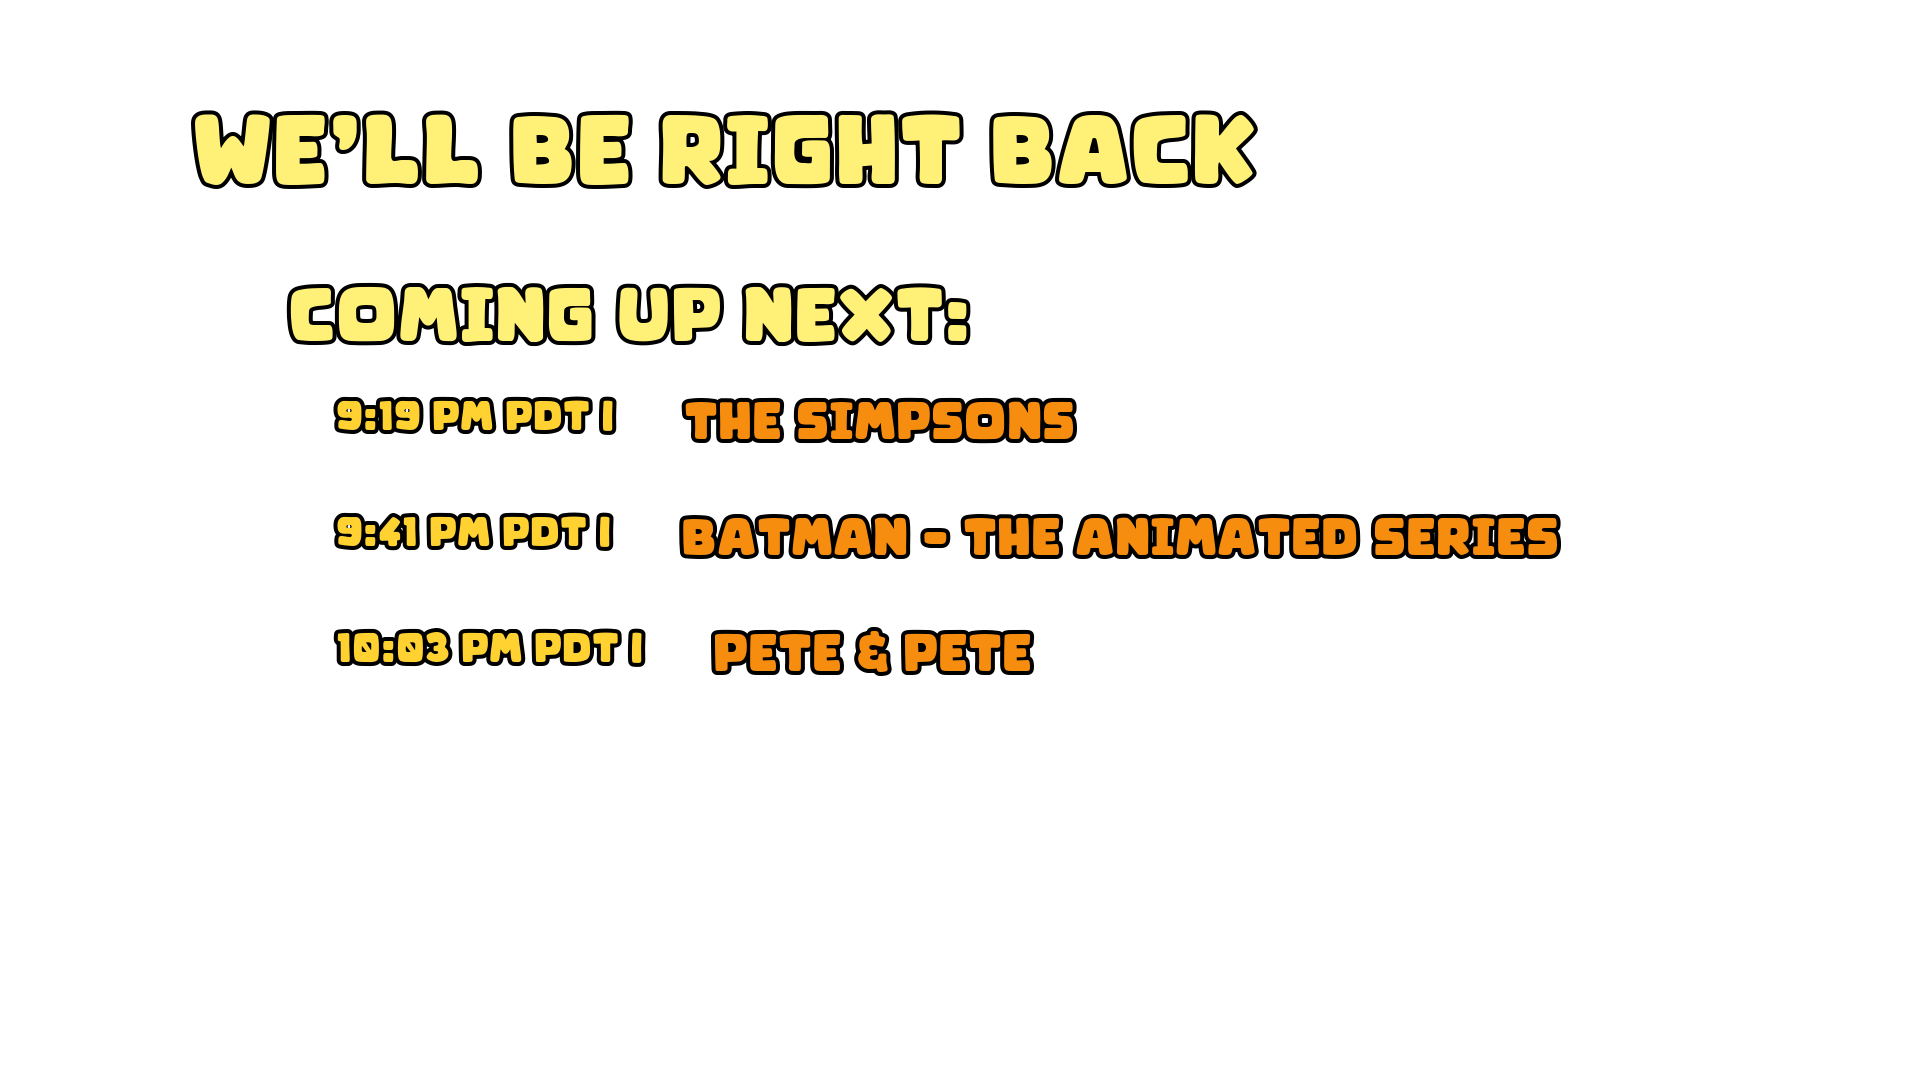
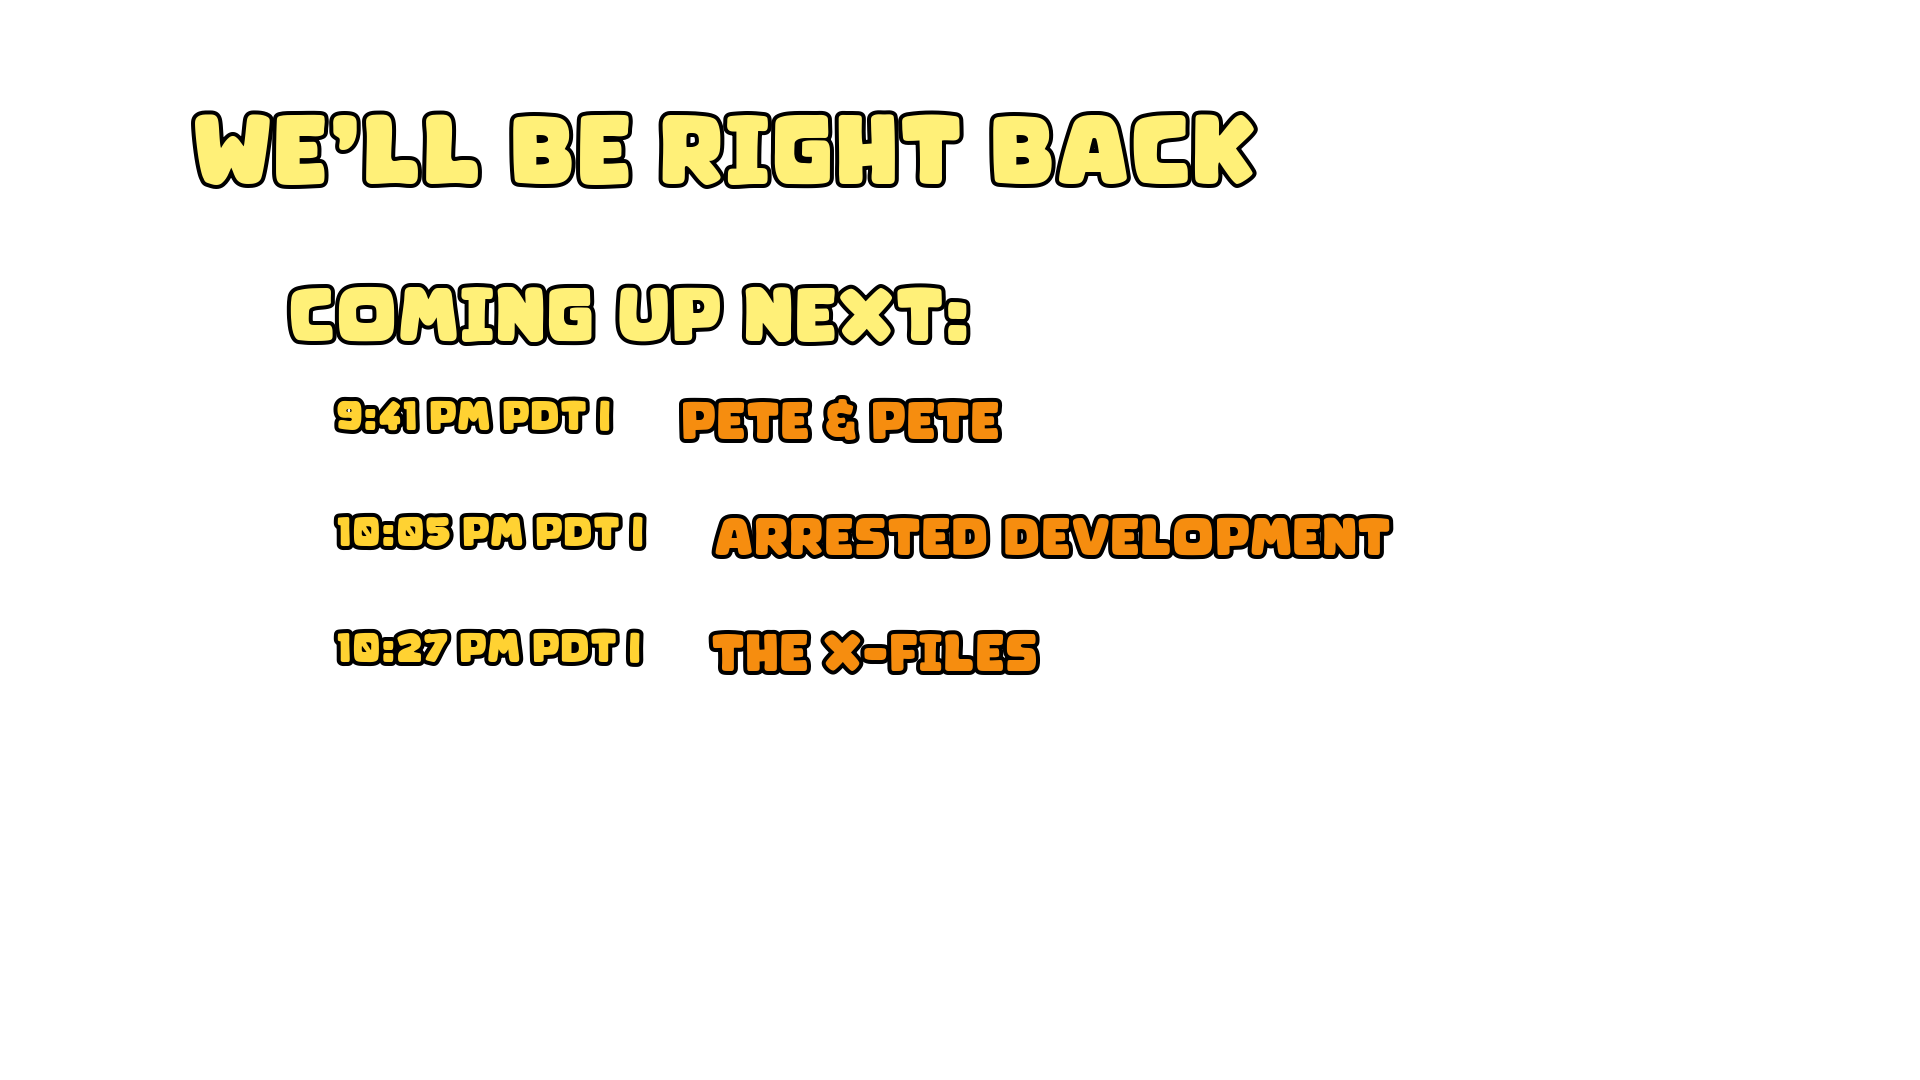
d

diff --git a/station_manager.py b/station_manager.py
@@ -17,11 +17,12 @@ if getattr(sys, 'frozen', False):
 else:
     app_dir = os.path.dirname(os.path.abspath(__file__))
 
+# --- THE MPV DLL FIX ---
 if os.name == 'nt' and hasattr(os, 'add_dll_directory'):
     os.add_dll_directory(app_dir)
+
 import mpv
 
-# Import our custom modules
 from inventory_manager import InventoryManager
 from schedule_engine import ScheduleEngine
 from commercial_manager import CommercialManager
@@ -49,9 +50,6 @@ DEFAULT_CONFIG = {
 }
 
 class TVStationService:
-    """
-    Runs the MPV Player in a background thread so the GUI doesn't freeze.
-    """
     def __init__(self, gui_app):
         self.gui = gui_app
         self.running = False
@@ -127,184 +125,173 @@ class TVStationService:
     def _get_random_bug_filter(self):
         """Picks a random GIF from assets/bugs and returns the FFmpeg filter string."""
         bug_dir = os.path.join(app_dir, "assets", "bugs")
-        
         if not os.path.exists(bug_dir):
             return None
-            
-        # Find all GIFs in the folder
         bugs = [f for f in os.listdir(bug_dir) if f.lower().endswith('.gif')]
         if not bugs:
             return None
             
-        # Pick a random bug and format the path for FFmpeg
         selected_bug = random.choice(bugs)
         bug_path = os.path.join(bug_dir, selected_bug)
         bug_path_ffmpeg = bug_path.replace("\\", "/").replace(":", "\\:")
-        
-        # Scale to 100px height (adjust if needed) and place in bottom right
         bug_height = 100
         return f"lavfi=[movie=filename='{bug_path_ffmpeg}':loop=0,scale=-1:{bug_height},setsar=1[logo];[in][logo]overlay=W-w-50:H-h-50]"
 
     def _broadcast_loop(self):
-        # --- 1. MPV SETUP ---
-        player = mpv.MPV(
-            wid=self.window_id,
-            input_default_bindings=True,
-            input_vo_keyboard=True,
-            log_handler=lambda level, prefix, text: print(f"MPV [{level}] {prefix}: {text}") if level in ['error', 'warning'] else None
-        )
+        player = None
+        try:
+            # --- 1. MPV SETUP ---
+            player = mpv.MPV(
+                wid=self.window_id,
+                input_default_bindings=True,
+                input_vo_keyboard=True,
+                log_handler=lambda level, prefix, text: print(f"MPV [{level}] {prefix}: {text}") if level in ['error', 'warning'] else None
+            )
 
-        while self.running:
-            current_content = self.scheduler.get_next_item()
-            current_playlist = self._prepare_playlist(current_content)
-            
-            if current_content['type'] == 'video':
-                show_title = current_content.get('show', 'Unknown Show')
-                ep_title = os.path.basename(current_content.get('path', 'Unknown Episode'))
-                self.current_meta.update({"show": show_title, "title": ep_title})
-            elif current_content['type'] == 'break':
-                self.current_meta.update({"show": "Commercial Break", "title": "Messages"})
-
-            # --- BUMPER SEQUENCE ---
-            if current_content['type'] == 'break':
-                print("--- GENERATING UP NEXT BUMPER ---")
+            while self.running:
+                current_content = self.scheduler.get_next_item()
+                current_playlist = self._prepare_playlist(current_content)
                 
-                comm_duration = random.randint(current_content['min'], current_content['max'])
-                upcoming_shows = self.scheduler.get_upcoming_durations(limit=3)
+                if current_content['type'] == 'video':
+                    show_title = current_content.get('show', 'Unknown Show')
+                    ep_title = os.path.basename(current_content.get('path', 'Unknown Episode'))
+                    self.current_meta.update({"show": show_title, "title": ep_title})
+                elif current_content['type'] == 'break':
+                    self.current_meta.update({"show": "Commercial Break", "title": "Messages"})
 
-                bg_folder = os.path.join(app_dir, "assets", "bg")
-                bumper_bg = None
-
-                if os.path.exists(bg_folder):
-                    valid_exts = ('.mp4', '.mkv', '.avi', '.mov')
-                    files = [f for f in os.listdir(bg_folder) if f.lower().endswith(valid_exts)]
-                    if files:
-                        bumper_bg = os.path.join(bg_folder, random.choice(files))
-
-                if not bumper_bg:
-                    bumper_bg = os.path.join(app_dir, "assets", "up_next_bg.mp4")
-
-                player.play(bumper_bg)
-                time.sleep(0.5) 
-
-                bg_width = player.dwidth if player.dwidth else 1920
-                bg_height = player.dheight if player.dheight else 1080
-
-                temp_overlay = os.path.join(app_dir, "assets", "temp_overlay.png")
-                self.gfx_engine.generate_transparent_bumper(
-                    upcoming_shows, 
-                    comm_duration, 
-                    output_path=temp_overlay,
-                    target_width=bg_width, 
-                    target_height=bg_height
-                )
-
-                # Apply the Bumper Text PNG
-                temp_overlay_ffmpeg = temp_overlay.replace("\\", "/").replace(":", "\\:")
-                bumper_filter = f"lavfi=[movie=filename='{temp_overlay_ffmpeg}'[logo];[in][logo]overlay=0:0]"
-                
-                try:
-                    player.command("vf", "add", f"@bumper:{bumper_filter}")
-                except Exception as e:
-                    print(f"DEBUG: Bumper Overlay Error: {e}")
-
-                # --- ADD A RANDOM BUG TO THE BUMPER ---
-                bug_filter = self._get_random_bug_filter()
-                if bug_filter:
-                    try:
-                        player.command("vf", "add", f"@stationbug:{bug_filter}")
-                    except Exception as e:
-                        print(f"DEBUG: Bumper Bug Overlay Error: {e}")
-
-                # Wait for Bumper to end
-                while not player.idle_active and self.running:
-                    time.sleep(0.1)
-
-                # Remove bumper filters
-                try: player.command("vf", "remove", "@bumper")
-                except: pass
-                try: player.command("vf", "remove", "@stationbug")
-                except: pass
-                
-                print("--- COMMERCIAL BREAK STARTING ---")
-
-            # --- PLAY CHUNK (Shows or Commercials) ---
-            for filepath in current_playlist:
-                if not self.running: break
-                
-                player.play(filepath)
-                time.sleep(0.5)
-                
-                # Setup Bug Timers for TV Shows
-                mid_bug_shown = False
-                end_bug_shown = False
-                remove_bug_at_time = 0
-                bug_display_duration = 15 # How many seconds the bug stays on screen
-                
-                # --- MONITOR LOOP ---
-                while not player.idle_active and self.running:
-                    # CHECK FOR SKIP
-                    if self.skip_flag:
-                        duration = player.duration if player.duration else 0
-                        curr_time = player.time_pos if player.time_pos else 0
-                        pct = (curr_time / duration) * 100 if duration > 0 else 0
-                        
-                        if current_content['type'] == 'video' and pct > 5:
-                            self.update_history(current_content['show'], current_content['path'], "partial", pct)
-                        
-                        player.stop()
-                        self.skip_flag = False
-                        break 
+                # --- BUMPER SEQUENCE ---
+                if current_content['type'] == 'break':
+                    print("--- GENERATING UP NEXT BUMPER ---")
                     
-                    # TIMED BUG LOGIC
-                    duration = player.duration if player.duration else 0
-                    if duration > 0:
-                        curr_time = player.time_pos if player.time_pos else 0
-                        self.current_meta["percent"] = (curr_time / duration) * 100
+                    comm_duration = random.randint(current_content['min'], current_content['max'])
+                    upcoming_shows = self.scheduler.get_upcoming_durations(limit=3)
 
-                        # Only do timed bugs on TV shows, not commercials
-                        if current_content['type'] == 'video':
+                    bg_folder = os.path.join(app_dir, "assets", "bg")
+                    bumper_bg = None
+
+                    if os.path.exists(bg_folder):
+                        valid_exts = ('.mp4', '.mkv', '.avi', '.mov')
+                        files = [f for f in os.listdir(bg_folder) if f.lower().endswith(valid_exts)]
+                        if files:
+                            bumper_bg = os.path.join(bg_folder, random.choice(files))
+
+                    if not bumper_bg:
+                        bumper_bg = os.path.join(app_dir, "assets", "up_next_bg.mp4")
+
+                    player.play(bumper_bg)
+                    time.sleep(0.5) 
+
+                    bg_width = player.dwidth if player.dwidth else 1920
+                    bg_height = player.dheight if player.dheight else 1080
+
+                    temp_overlay = os.path.join(app_dir, "assets", "temp_overlay.png")
+                    self.gfx_engine.generate_transparent_bumper(
+                        upcoming_shows, 
+                        comm_duration, 
+                        output_path=temp_overlay,
+                        target_width=bg_width, 
+                        target_height=bg_height
+                    )
+
+                    temp_overlay_ffmpeg = temp_overlay.replace("\\", "/").replace(":", "\\:")
+                    bumper_filter = f"lavfi=[movie=filename='{temp_overlay_ffmpeg}'[logo];[in][logo]overlay=0:0]"
+                    
+                    try: player.command("vf", "add", f"@bumper:{bumper_filter}")
+                    except: pass
+
+                    bug_filter = self._get_random_bug_filter()
+                    if bug_filter:
+                        try: player.command("vf", "add", f"@stationbug:{bug_filter}")
+                        except: pass
+
+                    # Wait for Bumper to end, allow skipping
+                    while not getattr(player, 'idle_active', True) and self.running:
+                        if self.skip_flag:
+                            player.command("stop")
+                            self.skip_flag = False
+                            break
+                        time.sleep(0.1)
+
+                    try: player.command("vf", "remove", "@bumper")
+                    except: pass
+                    try: player.command("vf", "remove", "@stationbug")
+                    except: pass
+                    
+                    print("--- COMMERCIAL BREAK STARTING ---")
+
+                # --- PLAY CHUNK (Shows or Commercials) ---
+                for filepath in current_playlist:
+                    if not self.running: break
+                    
+                    player.play(filepath)
+                    time.sleep(0.5)
+                    
+                    mid_bug_shown = False
+                    end_bug_shown = False
+                    remove_bug_at_time = 0
+                    bug_display_duration = 15 
+                    
+                    # --- MONITOR LOOP ---
+                    while not getattr(player, 'idle_active', True) and self.running:
+                        # CHECK FOR SKIP
+                        if self.skip_flag:
+                            duration = player.duration if player.duration else 0
+                            curr_time = player.time_pos if player.time_pos else 0
+                            pct = (curr_time / duration) * 100 if duration > 0 else 0
                             
-                            # Clean up the bug if its time is up
-                            if remove_bug_at_time > 0 and time.time() >= remove_bug_at_time:
-                                try: player.command("vf", "remove", "@stationbug")
-                                except: pass
-                                remove_bug_at_time = 0
+                            if current_content['type'] == 'video' and pct > 5:
+                                self.update_history(current_content['show'], current_content['path'], "partial", pct)
+                            
+                            player.command("stop")
+                            self.skip_flag = False
+                            break 
+                        
+                        # TIMED BUG LOGIC
+                        duration = player.duration if player.duration else 0
+                        if duration > 0:
+                            curr_time = player.time_pos if player.time_pos else 0
+                            self.current_meta["percent"] = (curr_time / duration) * 100
 
-                            # Trigger 1: The Halfway Mark
-                            if not mid_bug_shown and curr_time >= (duration / 2):
-                                bug_filter = self._get_random_bug_filter()
-                                if bug_filter:
-                                    try: player.command("vf", "add", f"@stationbug:{bug_filter}")
+                            if current_content['type'] == 'video':
+                                if remove_bug_at_time > 0 and time.time() >= remove_bug_at_time:
+                                    try: player.command("vf", "remove", "@stationbug")
                                     except: pass
-                                    remove_bug_at_time = time.time() + bug_display_duration
-                                mid_bug_shown = True
+                                    remove_bug_at_time = 0
 
-                            # Trigger 2: The Final Minute (60 seconds remaining)
-                            if not end_bug_shown and curr_time >= (duration - 60):
-                                bug_filter = self._get_random_bug_filter()
-                                if bug_filter:
-                                    try: player.command("vf", "add", f"@stationbug:{bug_filter}")
-                                    except: pass
-                                    remove_bug_at_time = time.time() + bug_display_duration
-                                end_bug_shown = True
-                    
-                    time.sleep(0.1)
+                                if not mid_bug_shown and curr_time >= (duration / 2):
+                                    bug_filter = self._get_random_bug_filter()
+                                    if bug_filter:
+                                        try: player.command("vf", "add", f"@stationbug:{bug_filter}")
+                                        except: pass
+                                        remove_bug_at_time = time.time() + bug_display_duration
+                                    mid_bug_shown = True
 
-                # Save history when video finishes naturally
-                if current_content['type'] == 'video' and not self.skip_flag and self.running:
-                    self.update_history(current_content['show'], current_content['path'], "watched", 100)
+                                if not end_bug_shown and curr_time >= (duration - 60):
+                                    bug_filter = self._get_random_bug_filter()
+                                    if bug_filter:
+                                        try: player.command("vf", "add", f"@stationbug:{bug_filter}")
+                                        except: pass
+                                        remove_bug_at_time = time.time() + bug_display_duration
+                                    end_bug_shown = True
+                        
+                        time.sleep(0.1)
 
-                # Ensure bug is removed before the next item plays
-                try: player.command("vf", "remove", "@stationbug")
+                    if current_content['type'] == 'video' and not self.skip_flag and self.running:
+                        self.update_history(current_content['show'], current_content['path'], "watched", 100)
+
+                    try: player.command("vf", "remove", "@stationbug")
+                    except: pass
+
+        except Exception as e:
+            # We catch the ShutdownError silently so the app doesn't crash visually
+            print(f"DEBUG: Broadcast Loop Terminated Safely.")
+        finally:
+            if player:
+                try: player.terminate()
                 except: pass
-
-        # Cleanup on exit
-        player.terminate()
-        self.current_meta = {"title": "Offline", "show": "", "percent": 0}
+            self.current_meta = {"title": "Offline", "show": "", "percent": 0}
 
     def _prepare_playlist(self, content):
-        """Helper to convert content item into a list of file paths"""
         playlist = []
         if content['type'] == 'video':
             if content.get('path'): 
@@ -339,8 +326,6 @@ class TVStationService:
             json.dump(history, f, indent=4)
             
         self.scheduler.history = self.scheduler._load_history()
-
-# --- THE REST OF YOUR APP (StationManagerApp) REMAINS EXACTLY THE SAME ---
 
 class StationManagerApp:
     def __init__(self, root):
@@ -547,17 +532,20 @@ class StationManagerApp:
             self.video_window.protocol("WM_DELETE_WINDOW", self.toggle_station)
             self.video_window.update()
             
-            # Start Broadcast (Pass the Tkinter window ID directly to mpv)
             window_id = self.video_window.winfo_id()
             self.station.start_broadcast(window_id)
-            
             self.btn_start.config(text="⏹ STOP STATION", bg="red")
         else:
             self.station.stop_broadcast()
-            if hasattr(self, 'video_window') and self.video_window:
-                self.video_window.destroy()
-                self.video_window = None
+            
+            # THE FIX: Wait 0.5s for MPV to process stop_broadcast safely before destroying the window
+            self.root.after(500, self._destroy_video_window)
             self.btn_start.config(text="▶ START STATION", bg="green")
+
+    def _destroy_video_window(self):
+        if hasattr(self, 'video_window') and self.video_window:
+            self.video_window.destroy()
+            self.video_window = None
 
     def update_ui_loop(self):
         meta = self.station.current_meta